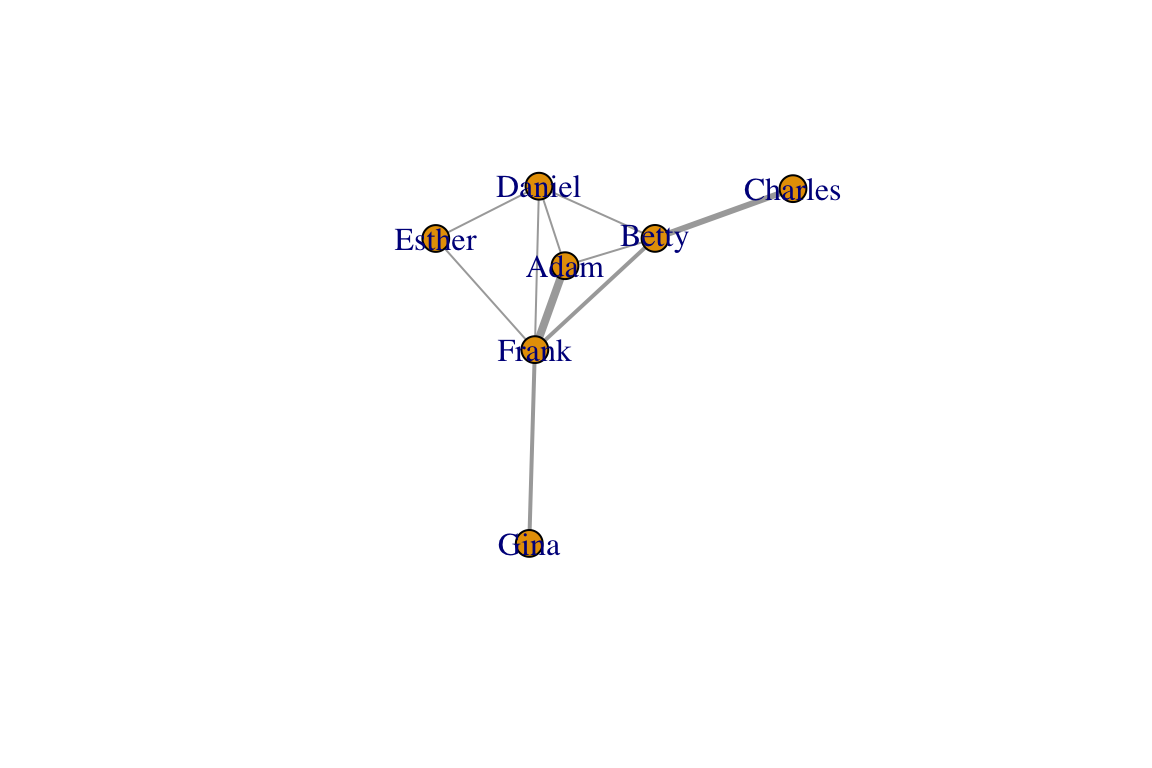
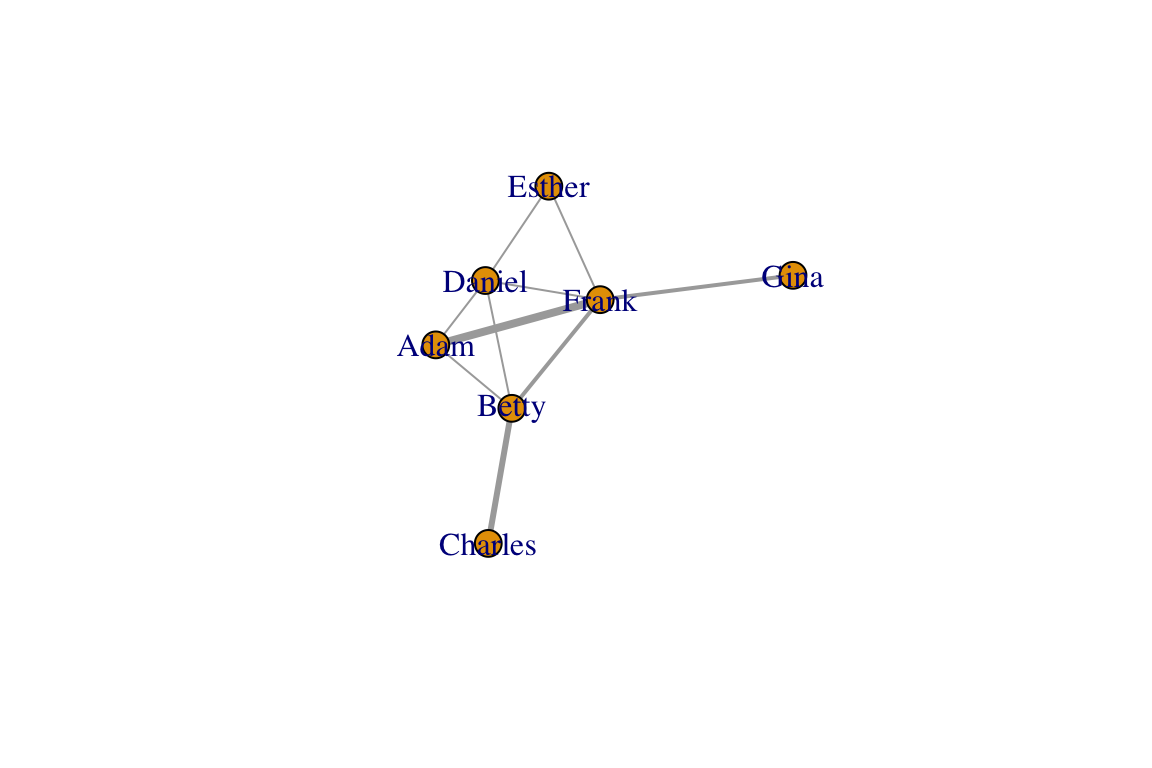
render

Changed region(s): [[0.3438, 0.2188, 0.625, 0.75], [0.625, 0.2188, 0.7188, 0.2812], [0.5938, 0.3438, 0.7188, 0.375]]

diff --git a/02_dataformats.html b/02_dataformats.html
@@ -11,7 +11,7 @@
 
 
 
-<title>02-Data Formats for Networks</title>
+<title>2.Data Formats for Networks</title>
 
 <script src="site_libs/jquery-1.11.3/jquery.min.js"></script>
 <meta name="viewport" content="width=device-width, initial-scale=1" />
@@ -196,7 +196,7 @@ $(document).ready(function () {
 
 
 
-<h1 class="title toc-ignore">02-Data Formats for Networks</h1>
+<h1 class="title toc-ignore">2.Data Formats for Networks</h1>
 
 </div>
 
@@ -410,7 +410,7 @@ plot(dir.g)</code></pre>
 <div id="creating-a-network-from-your-edge-list" class="section level3">
 <h3>2.3.1 Creating a network from your edge list</h3>
 <p>Creating a network from an edgelist that you have created is easy. First, import the .csv file called “sample_edgelist.csv”.</p>
-<pre class="r"><code> edge.dat=read.csv(&quot;https://dshizuka.github.io/network2018/NetworkWorkshop_SampleData/sample_edgelist.csv&quot;) 
+<pre class="r"><code>edge.dat=read.csv(&quot;https://dshizuka.github.io/network2018/NetworkWorkshop_SampleData/sample_edgelist.csv&quot;) 
 edge.dat</code></pre>
 <pre><code>##        V1      V2 weight
 ## 1    Adam   Betty      1
@@ -424,7 +424,8 @@ edge.dat</code></pre>
 ## 9  Esther   Frank      1
 ## 10  Frank    Gina      2</code></pre>
 <p>So this data frame has three columns: the first two columns are the edge list, and the third column is an edge value we called “weight”. If we have the data organized this way, we can simply use a function called <code>graph.data.frame()</code> to create a network we will call <code>eg</code>.</p>
-<pre class="r"><code>eg=graph_from_data_frame(edge.dat, directed=FALSE) 
+<pre class="r"><code>set.seed(2)
+eg=graph_from_data_frame(edge.dat, directed=FALSE) 
 eg</code></pre>
 <pre><code>## IGRAPH UNW- 7 10 -- 
 ## + attr: name (v/c), weight (e/n)
